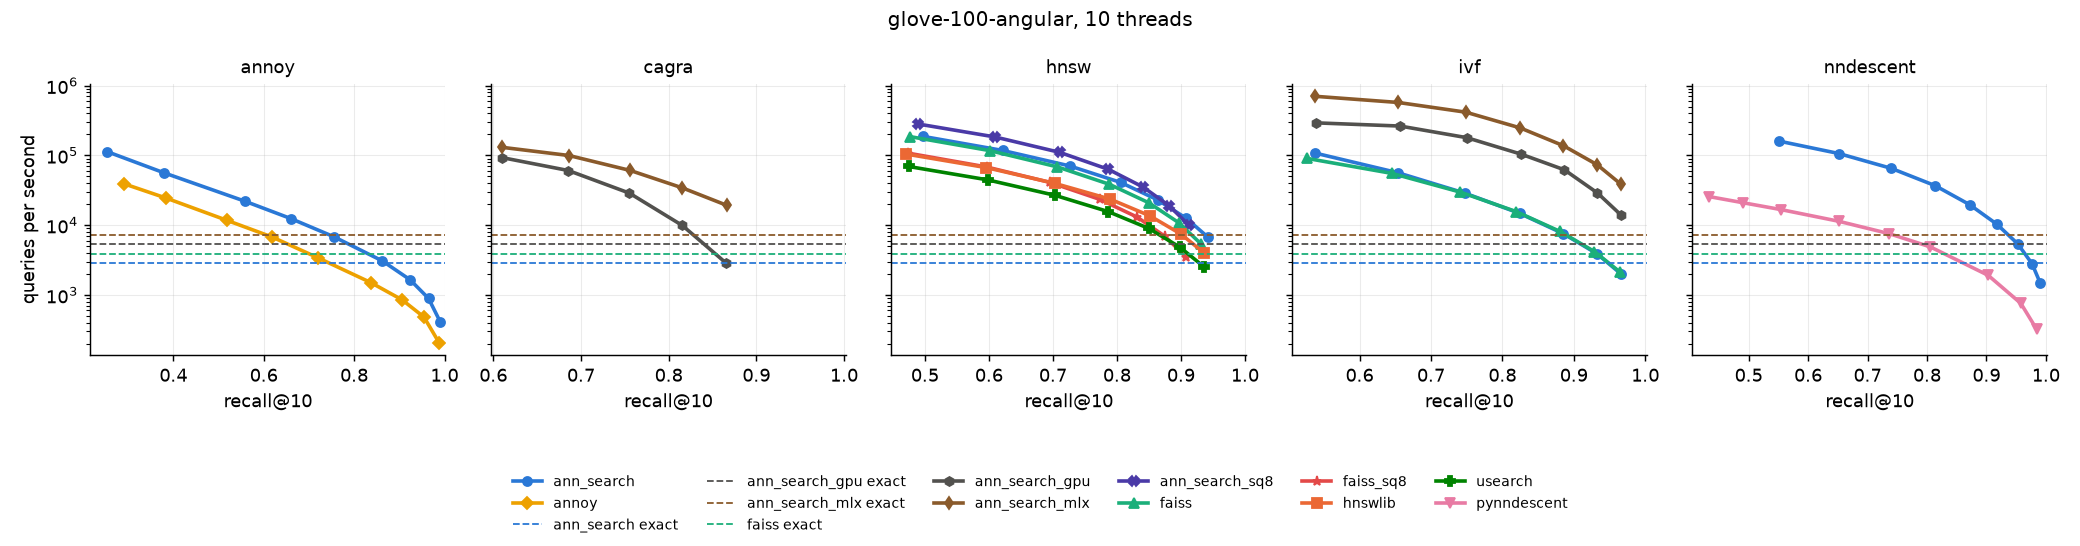
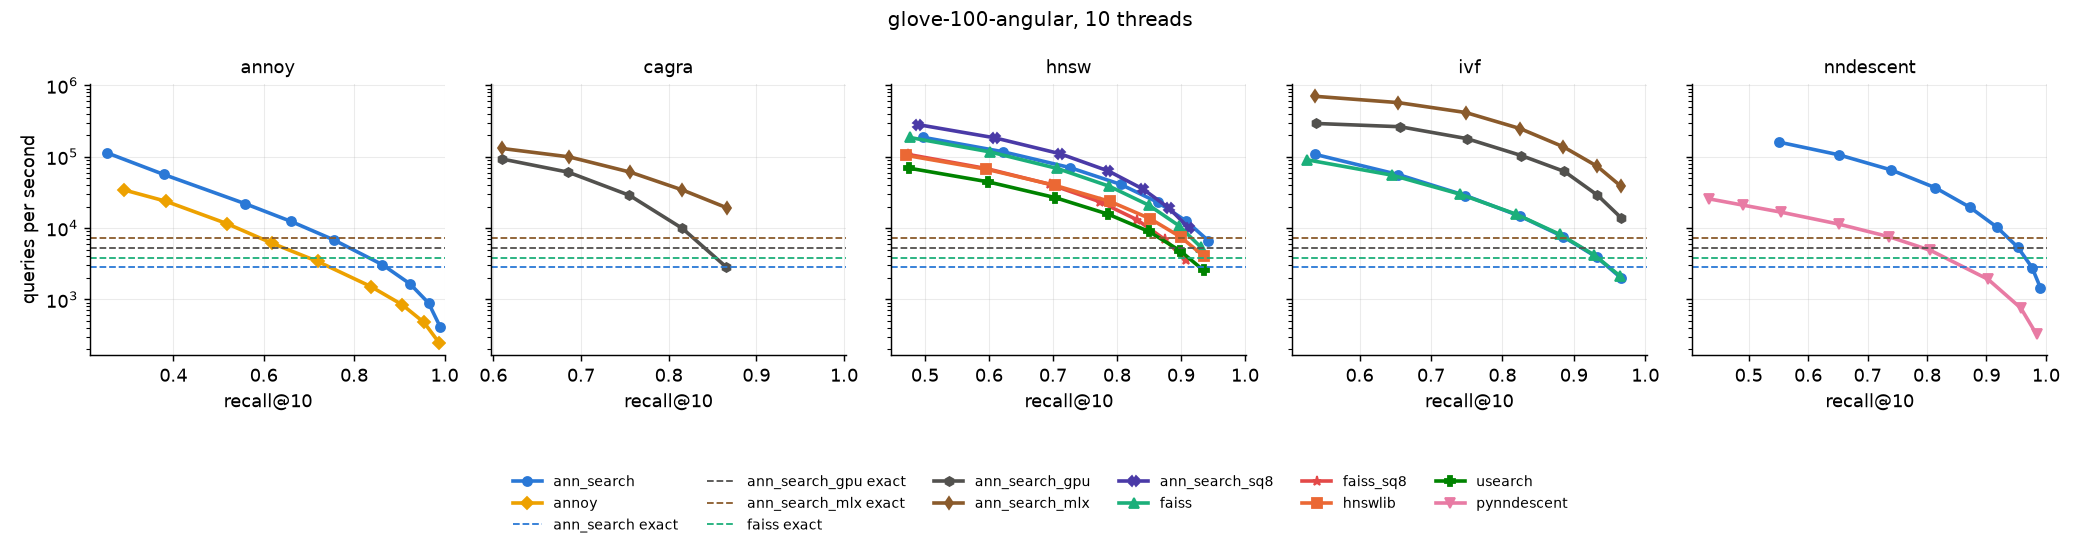
docs: rerun Spotify annoy on GloVe on a quiet machine

diff --git a/docs/benchmarks_comparison.md b/docs/benchmarks_comparison.md
@@ -167,7 +167,7 @@ The ann-benchmarks convention.
 | Method | Library | Build (s) | Build peak (MiB) | Index (MiB) | QPS @ 0.70 | QPS @ 0.80 | QPS @ 0.90 |
 |---|---|---:|---:|---:|---:|---:|---:|
 | annoy | **ann_search** | 11.6 | 2,388 | 1,182 | 6,844 | 3,065 | 1,648 |
-| annoy | annoy | 26.8 | 2,174 | 1,652 | 3,415 | 1,501 | 851 |
+| annoy | annoy | 26.4 | 2,117 | 1,613 | 3,400 | 1,515 | 844 |
 | cagra | **ann_search_mlx** | 17.7 | 4,485 | 1,570 | 60,705 | 34,136 | n/a |
 | cagra | **ann_search_gpu** | 22.3 | 8,470 | 7,703 | 28,725 | 9,880 | n/a |
 | exhaustive | **ann_search_mlx** | 0.1 | 1,356 | 1,356 | 7,254 | 7,254 | 7,254 |
@@ -191,5 +191,5 @@ The ann-benchmarks convention.
 
 ### Runtime info
 
-*ann-search-rs 0.11.0 (commit v0.10.1-76-g288b4d6), run on 2026-10-11 on Apple M1 Max. Runs span commits py-v0.5.0-dirty, v0.10.1-76-g288b4d6.*
+*ann-search-rs 0.11.0 (commit v0.10.1-76-g288b4d6), run on 2026-10-11 on Apple M1 Max. Runs span commits py-v0.5.0-1-g137e44e, py-v0.5.0-dirty, v0.10.1-76-g288b4d6.*
 *All benchmarks were run on M1 Max MacBook Pro with 64 GB unified memory.*
